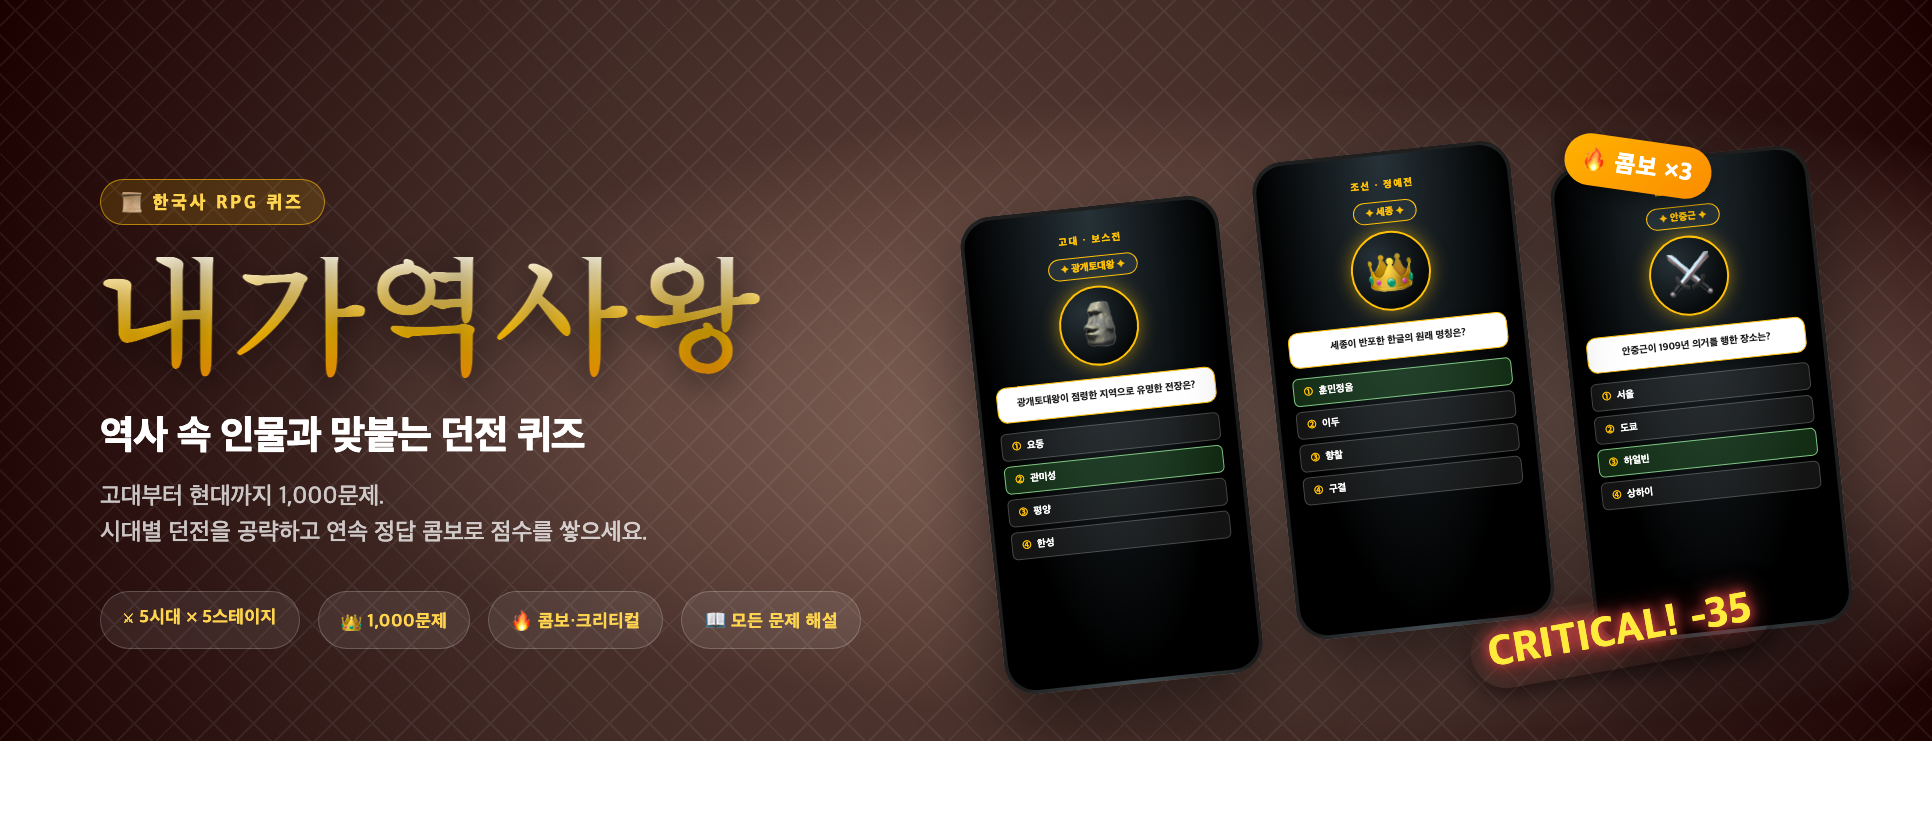
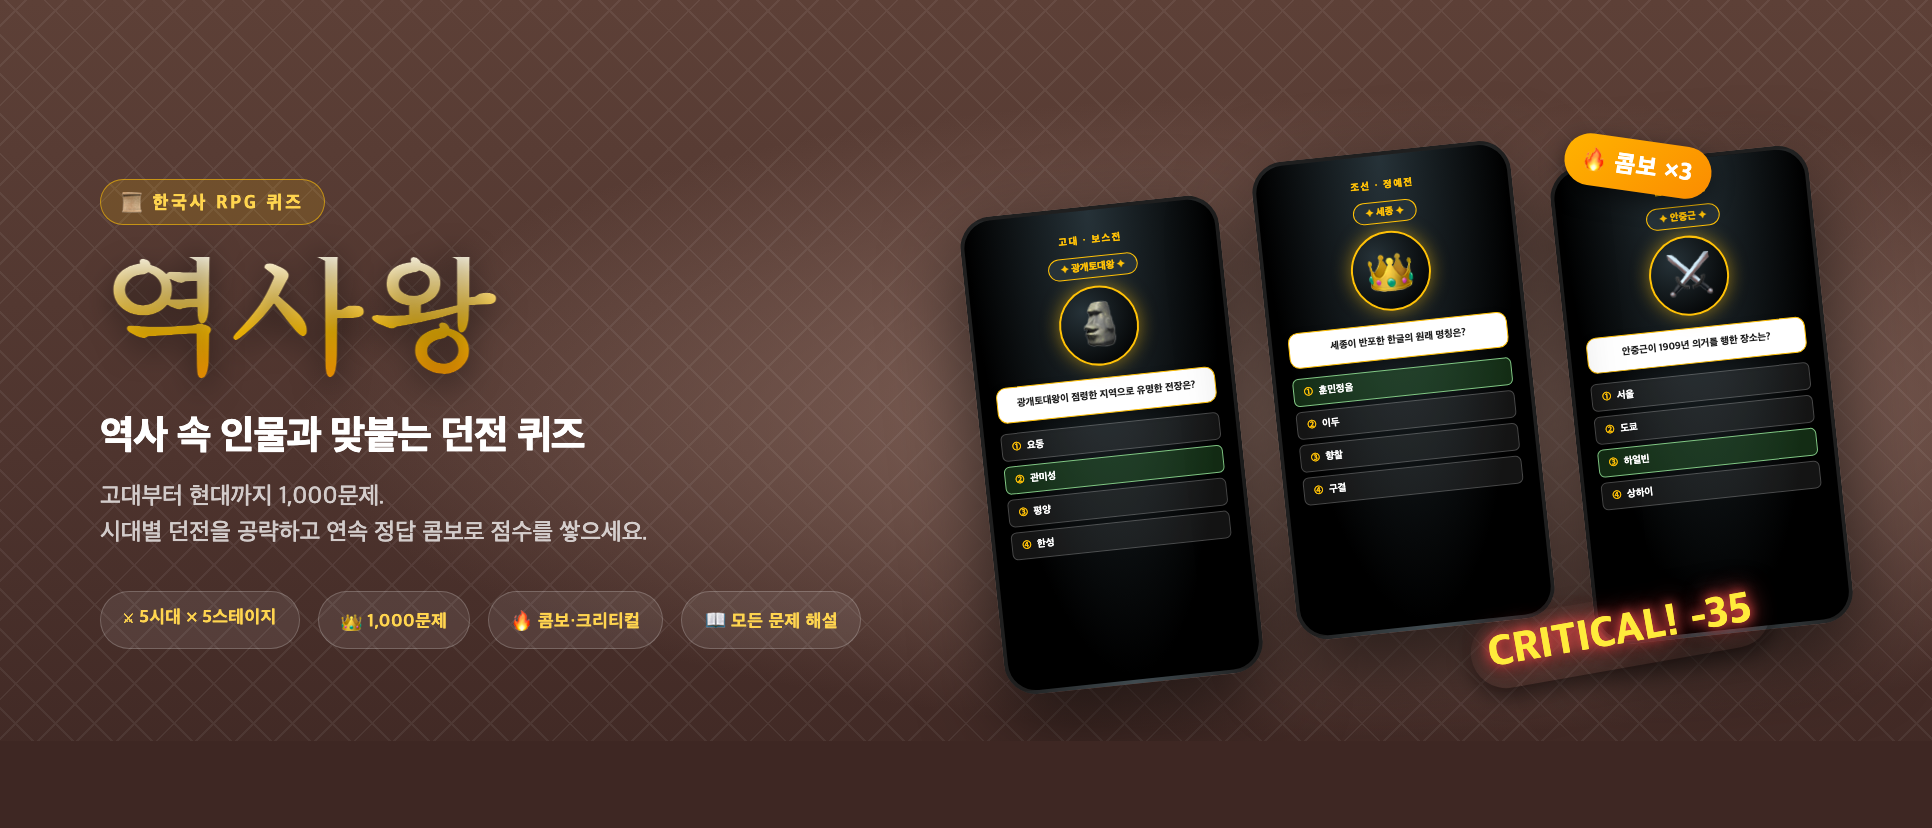
design(assets): add 1000x1000 square thumbnail and solidify backgrounds
- new thumbnail-square.html (1000x1000) per Toss console 정방형 썸네일 spec
- logo/thumbnail backgrounds switched from fade-to-near-black to solid brown gradient; html bg set opaque
- regeneration uses --default-background-color=3E2723FF to block transparency
- wide thumbnail title 내가역사왕 → 역사왕
- README updated

diff --git a/design/thumbnail-square.html b/design/thumbnail-square.html
@@ -1,0 +1,154 @@
+<!doctype html>
+<html>
+  <head>
+    <meta charset="utf-8" />
+    <style>
+      * { margin: 0; padding: 0; box-sizing: border-box; }
+      html, body {
+        background: #3E2723;
+      }
+      body {
+        width: 1000px;
+        height: 1000px;
+        overflow: hidden;
+        font-family: "Apple SD Gothic Neo", "Noto Sans KR", system-ui, sans-serif;
+      }
+      .canvas {
+        position: relative;
+        width: 1000px;
+        height: 1000px;
+        background:
+          radial-gradient(ellipse at 30% 18%, #8D6E63 0%, transparent 48%),
+          linear-gradient(180deg, #5D4037 0%, #4E342E 50%, #3E2723 100%);
+        overflow: hidden;
+      }
+      .canvas::before {
+        content: "";
+        position: absolute;
+        inset: 0;
+        opacity: 0.05;
+        background-image:
+          repeating-linear-gradient(45deg, #FFFFFF 0 2px, transparent 2px 28px),
+          repeating-linear-gradient(-45deg, #FFFFFF 0 2px, transparent 2px 28px);
+        pointer-events: none;
+      }
+      .inner {
+        position: relative;
+        z-index: 1;
+        width: 100%;
+        height: 100%;
+        display: flex;
+        flex-direction: column;
+        align-items: center;
+        justify-content: center;
+        padding: 120px 80px;
+        color: #FFFFFF;
+        text-align: center;
+      }
+      .tag {
+        display: inline-block;
+        padding: 10px 28px;
+        background: rgba(255, 193, 7, 0.18);
+        border: 2px solid rgba(255, 193, 7, 0.65);
+        color: #FFD54F;
+        border-radius: 999px;
+        font-weight: 800;
+        letter-spacing: 6px;
+        font-size: 26px;
+        margin-bottom: 40px;
+      }
+      .crown {
+        width: 200px;
+        height: 120px;
+        filter: drop-shadow(0 10px 20px rgba(0, 0, 0, 0.55))
+          drop-shadow(0 0 28px rgba(255, 193, 7, 0.4));
+        margin-bottom: 10px;
+      }
+      .title {
+        font-family: "Nanum Myeongjo", "AppleMyungjo", "Apple SD Gothic Neo",
+          "Noto Serif KR", serif;
+        font-weight: 900;
+        font-size: 220px;
+        line-height: 1;
+        letter-spacing: -6px;
+        white-space: nowrap;
+        background: linear-gradient(180deg, #FFF8E1 0%, #FFC107 55%, #FF8F00 100%);
+        -webkit-background-clip: text;
+        background-clip: text;
+        color: transparent;
+        text-shadow: 0 8px 22px rgba(0, 0, 0, 0.55);
+        margin-top: 6px;
+      }
+      .sub {
+        font-size: 38px;
+        font-weight: 800;
+        color: #FFFFFF;
+        margin-top: 26px;
+        letter-spacing: -1px;
+      }
+      .desc {
+        font-size: 26px;
+        color: rgba(255, 255, 255, 0.75);
+        margin-top: 20px;
+        line-height: 1.45;
+        font-weight: 500;
+      }
+      .features {
+        display: flex;
+        gap: 14px;
+        margin-top: 40px;
+        flex-wrap: wrap;
+        justify-content: center;
+      }
+      .feat {
+        padding: 14px 22px;
+        background: rgba(255, 255, 255, 0.08);
+        border: 1.5px solid rgba(255, 255, 255, 0.22);
+        border-radius: 999px;
+        font-size: 22px;
+        font-weight: 700;
+        color: #FFD54F;
+        letter-spacing: 0.5px;
+      }
+    </style>
+  </head>
+  <body>
+    <div class="canvas">
+      <div class="inner">
+        <div class="tag">한국사 RPG 퀴즈</div>
+        <svg class="crown" viewBox="0 0 220 135" xmlns="http://www.w3.org/2000/svg">
+          <defs>
+            <linearGradient id="g" x1="0" y1="0" x2="0" y2="1">
+              <stop offset="0%" stop-color="#FFF8E1" />
+              <stop offset="50%" stop-color="#FFC107" />
+              <stop offset="100%" stop-color="#FF8F00" />
+            </linearGradient>
+          </defs>
+          <path
+            d="M 12 118 L 28 35 L 66 86 L 110 12 L 154 86 L 192 35 L 208 118 Z"
+            fill="url(#g)"
+            stroke="#3E2723"
+            stroke-width="4"
+            stroke-linejoin="round"
+          />
+          <rect x="10" y="118" width="200" height="14" rx="3"
+            fill="url(#g)" stroke="#3E2723" stroke-width="4" />
+          <circle cx="28" cy="46" r="7" fill="#E91E63" stroke="#3E2723" stroke-width="2" />
+          <circle cx="110" cy="26" r="10" fill="#E91E63" stroke="#3E2723" stroke-width="2" />
+          <circle cx="192" cy="46" r="7" fill="#E91E63" stroke="#3E2723" stroke-width="2" />
+        </svg>
+        <div class="title">역사왕</div>
+        <div class="sub">역사 속 인물과 맞붙는 던전 퀴즈</div>
+        <div class="desc">
+          고대부터 현대까지 1,000문제<br />
+          시대별 던전을 공략하고 콤보로 점수를 쌓으세요
+        </div>
+        <div class="features">
+          <div class="feat">⚔ 5시대 × 5스테이지</div>
+          <div class="feat">👑 1,000문제</div>
+          <div class="feat">🔥 콤보·크리티컬</div>
+        </div>
+      </div>
+    </div>
+  </body>
+</html>

diff --git a/design/logo.html b/design/logo.html
@@ -4,7 +4,7 @@
     <meta charset="utf-8" />
     <style>
       * { margin: 0; padding: 0; box-sizing: border-box; }
-      html, body { background: transparent; }
+      html, body { background: #3E2723; }
       body {
         width: 600px;
         height: 600px;
@@ -15,8 +15,8 @@
         width: 600px;
         height: 600px;
         background:
-          radial-gradient(ellipse at 30% 20%, #8D6E63 0%, transparent 55%),
-          radial-gradient(circle at 50% 50%, #5D4037 0%, #3E2723 55%, #1B0000 100%);
+          radial-gradient(ellipse at 30% 18%, #8D6E63 0%, transparent 45%),
+          linear-gradient(180deg, #5D4037 0%, #4E342E 55%, #3E2723 100%);
         display: flex;
         align-items: center;
         justify-content: center;

diff --git a/design/thumbnail.html b/design/thumbnail.html
@@ -4,13 +4,14 @@
     <meta charset="utf-8" />
     <link rel="stylesheet" href="_shared.css" />
     <style>
+      html { background: #3E2723; }
       body {
         width: 1932px;
         height: 828px;
         position: relative;
         background:
           radial-gradient(ellipse at 70% 50%, #8D6E63 0%, transparent 55%),
-          radial-gradient(circle at 50% 50%, #5D4037 0%, #3E2723 55%, #1B0000 100%);
+          linear-gradient(180deg, #5D4037 0%, #4E342E 55%, #3E2723 100%);
         overflow: hidden;
       }
       body::before {
@@ -155,7 +156,7 @@
     <div class="wrap">
       <div class="left">
         <div class="tag">📜 한국사 RPG 퀴즈</div>
-        <div class="title">내가역사왕</div>
+        <div class="title">역사왕</div>
         <div class="sub">역사 속 인물과 맞붙는 던전 퀴즈</div>
         <div class="desc">
           고대부터 현대까지 1,000문제.<br />

diff --git a/design/README.md b/design/README.md
@@ -1,4 +1,4 @@
-# 내가역사왕 — 앱인토스 제출용 에셋
+# 역사왕 — 앱인토스 제출용 에셋
 
 모든 이미지는 HTML/CSS로 제작한 뒤 headless Chrome으로 PNG 변환했어요. 소스 HTML을 수정하고 아래 명령을 다시 실행하면 재생성됩니다.
 
@@ -7,10 +7,13 @@
 | 용도 | 규격 | 파일 | 소스 |
 |---|---|---|---|
 | 앱 로고 아이콘 | 600×600 | [out/logo.png](./out/logo.png) | [logo.html](./logo.html) |
+| 정방형 썸네일 | 1000×1000 | [out/thumbnail-square.png](./out/thumbnail-square.png) | [thumbnail-square.html](./thumbnail-square.html) |
+| 가로형 썸네일 | 1932×828 | [out/thumbnail.png](./out/thumbnail.png) | [thumbnail.html](./thumbnail.html) |
 | 스크린샷 1 · 홈 | 636×1048 | [out/screenshot-1.png](./out/screenshot-1.png) | [screenshot-1.html](./screenshot-1.html) |
 | 스크린샷 2 · 스테이지 | 636×1048 | [out/screenshot-2.png](./out/screenshot-2.png) | [screenshot-2.html](./screenshot-2.html) |
 | 스크린샷 3 · 전투 | 636×1048 | [out/screenshot-3.png](./out/screenshot-3.png) | [screenshot-3.html](./screenshot-3.html) |
-| 가로형 썸네일 | 1932×828 | [out/thumbnail.png](./out/thumbnail.png) | [thumbnail.html](./thumbnail.html) |
+
+> 모든 PNG는 투명 배경 없이 배경색이 꽉 채워진 상태로 저장됩니다 (`--default-background-color=3E2723FF`). 앱인토스 검수 가이드상 로고·썸네일은 투명 배경 사용이 불가해요.
 
 ## 로고 가이드 준수
 
@@ -28,18 +31,27 @@
 cd design
 CHROME="/Applications/Google Chrome.app/Contents/MacOS/Google Chrome"
 OUT=out
+BG=3E2723FF # 투명 배경 방지: 기본 배경색을 브랜드 다크 브라운으로 강제
 
 "$CHROME" --headless=new --disable-gpu --hide-scrollbars \
+  --default-background-color=$BG \
   --window-size=600,600 --screenshot="$OUT/logo.png" \
   "file://$PWD/logo.html"
 
+"$CHROME" --headless=new --disable-gpu --hide-scrollbars \
+  --default-background-color=$BG \
+  --window-size=1000,1000 --screenshot="$OUT/thumbnail-square.png" \
+  "file://$PWD/thumbnail-square.html"
+
+"$CHROME" --headless=new --disable-gpu --hide-scrollbars \
+  --default-background-color=$BG \
+  --window-size=1932,828 --screenshot="$OUT/thumbnail.png" \
+  "file://$PWD/thumbnail.html"
+
 for n in 1 2 3; do
   "$CHROME" --headless=new --disable-gpu --hide-scrollbars \
+    --default-background-color=$BG \
     --window-size=636,1048 --screenshot="$OUT/screenshot-$n.png" \
     "file://$PWD/screenshot-$n.html"
 done
-
-"$CHROME" --headless=new --disable-gpu --hide-scrollbars \
-  --window-size=1932,828 --screenshot="$OUT/thumbnail.png" \
-  "file://$PWD/thumbnail.html"
 ```